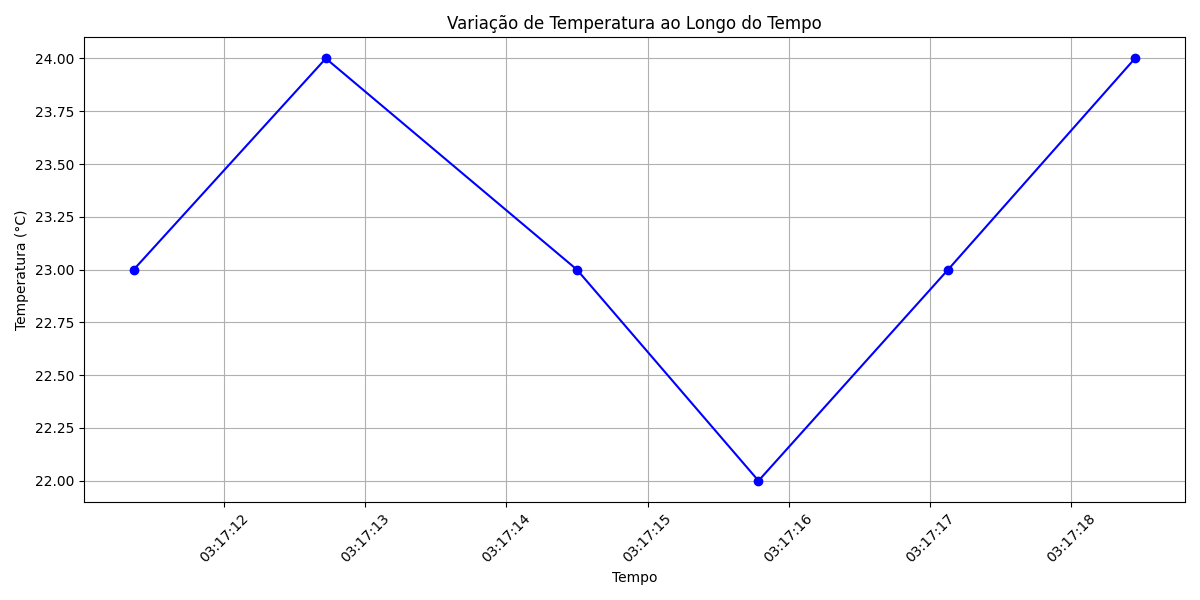
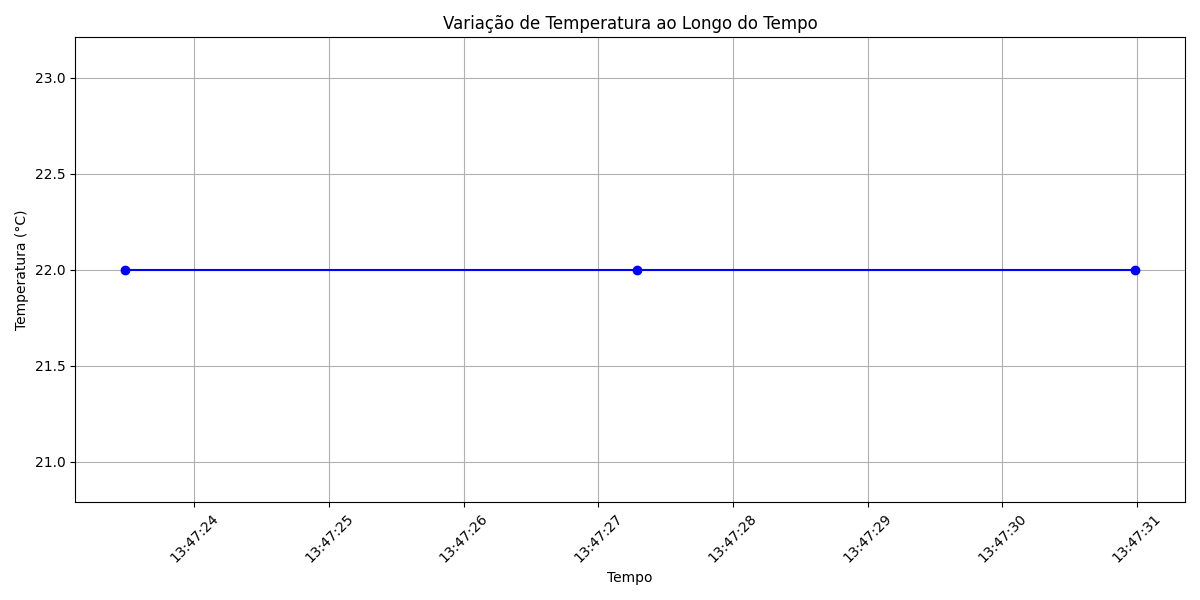
update query

diff --git a/temporary/mapa_interativo.html b/temporary/mapa_interativo.html
@@ -25,7 +25,7 @@
             <meta name="viewport" content="width=device-width,
                 initial-scale=1.0, maximum-scale=1.0, user-scalable=no" />
             <style>
-                #map_e3aedf1ac83366b0829b24443fabc8b7 {
+                #map_30543bebe0c7d80ff248e137aa27f65f {
                     position: relative;
                     width: 100.0%;
                     height: 100.0%;
@@ -39,18 +39,18 @@
 <body>
     
     
-            <div class="folium-map" id="map_e3aedf1ac83366b0829b24443fabc8b7" ></div>
+            <div class="folium-map" id="map_30543bebe0c7d80ff248e137aa27f65f" ></div>
         
 </body>
 <script>
     
     
-            var map_e3aedf1ac83366b0829b24443fabc8b7 = L.map(
-                "map_e3aedf1ac83366b0829b24443fabc8b7",
+            var map_30543bebe0c7d80ff248e137aa27f65f = L.map(
+                "map_30543bebe0c7d80ff248e137aa27f65f",
                 {
                     center: [-22.816832367493333, -47.06966012713691],
                     crs: L.CRS.EPSG3857,
-                    zoom: 17,
+                    zoom: 16,
                     zoomControl: true,
                     preferCanvas: false,
                 }
@@ -60,39 +60,80 @@
 
         
     
-            var tile_layer_a0398e5f655644e53e5edd1a771ab998 = L.tileLayer(
+            var tile_layer_a16a953ddb76fdcf31aca2148f926533 = L.tileLayer(
                 "https://tile.openstreetmap.org/{z}/{x}/{y}.png",
                 {"attribution": "\u0026copy; \u003ca href=\"https://www.openstreetmap.org/copyright\"\u003eOpenStreetMap\u003c/a\u003e contributors", "detectRetina": false, "maxNativeZoom": 19, "maxZoom": 19, "minZoom": 0, "noWrap": false, "opacity": 1, "subdomains": "abc", "tms": false}
             );
         
     
-            tile_layer_a0398e5f655644e53e5edd1a771ab998.addTo(map_e3aedf1ac83366b0829b24443fabc8b7);
+            tile_layer_a16a953ddb76fdcf31aca2148f926533.addTo(map_30543bebe0c7d80ff248e137aa27f65f);
         
     
-            var marker_1c1399b52b5e4f5e831d1d528a805f4f = L.marker(
-                [-22.813511570212142, -47.06393397533617],
+            var marker_34e2516f6445600b1444703c5de8d439 = L.marker(
+                [-22.81321, -47.0637],
                 {}
-            ).addTo(map_e3aedf1ac83366b0829b24443fabc8b7);
+            ).addTo(map_30543bebe0c7d80ff248e137aa27f65f);
         
     
-        var popup_e309bd49cfe048e60ede7df97f1ff206 = L.popup({"maxWidth": "100%"});
+            var icon_0d07ff0abb2caa1b83fd4300a021a510 = L.AwesomeMarkers.icon(
+                {"extraClasses": "fa-rotate-0", "icon": "info-sign", "iconColor": "white", "markerColor": "red", "prefix": "glyphicon"}
+            );
+            marker_34e2516f6445600b1444703c5de8d439.setIcon(icon_0d07ff0abb2caa1b83fd4300a021a510);
+        
+    
+        var popup_17bf38505822e92a7dd1478157816001 = L.popup({"maxWidth": "100%"});
 
         
             
-                var html_45e2dd57e9275795763baf31bd4df918 = $(`<div id="html_45e2dd57e9275795763baf31bd4df918" style="width: 100.0%; height: 100.0%;">Temperature: 24ºC</div>`)[0];
-                popup_e309bd49cfe048e60ede7df97f1ff206.setContent(html_45e2dd57e9275795763baf31bd4df918);
+                var html_b7631daf36058e483fcb6e41403cbbe8 = $(`<div id="html_b7631daf36058e483fcb6e41403cbbe8" style="width: 100.0%; height: 100.0%;">Temperature: 23.67ºC</div>`)[0];
+                popup_17bf38505822e92a7dd1478157816001.setContent(html_b7631daf36058e483fcb6e41403cbbe8);
             
         
 
-        marker_1c1399b52b5e4f5e831d1d528a805f4f.bindPopup(popup_e309bd49cfe048e60ede7df97f1ff206)
+        marker_34e2516f6445600b1444703c5de8d439.bindPopup(popup_17bf38505822e92a7dd1478157816001)
         ;
 
         
     
     
-            marker_1c1399b52b5e4f5e831d1d528a805f4f.bindTooltip(
+            marker_34e2516f6445600b1444703c5de8d439.bindTooltip(
                 `<div>
-                     Temperature: 24ºC
+                     Temperature: 23.67ºC
+                 </div>`,
+                {"sticky": true}
+            );
+        
+    
+            var marker_e52fcf7b0c49ff86e0e310f22b8ab8c3 = L.marker(
+                [-22.81351, -47.06087],
+                {}
+            ).addTo(map_30543bebe0c7d80ff248e137aa27f65f);
+        
+    
+            var icon_4ad69f7541c9086e29569d783d3cd0ec = L.AwesomeMarkers.icon(
+                {"extraClasses": "fa-rotate-0", "icon": "info-sign", "iconColor": "white", "markerColor": "red", "prefix": "glyphicon"}
+            );
+            marker_e52fcf7b0c49ff86e0e310f22b8ab8c3.setIcon(icon_4ad69f7541c9086e29569d783d3cd0ec);
+        
+    
+        var popup_8b05b3908fe084dd585d7f6725a20d05 = L.popup({"maxWidth": "100%"});
+
+        
+            
+                var html_a4495734e69b29c355dc20e0839a23ff = $(`<div id="html_a4495734e69b29c355dc20e0839a23ff" style="width: 100.0%; height: 100.0%;">Temperature: 80.12ºC</div>`)[0];
+                popup_8b05b3908fe084dd585d7f6725a20d05.setContent(html_a4495734e69b29c355dc20e0839a23ff);
+            
+        
+
+        marker_e52fcf7b0c49ff86e0e310f22b8ab8c3.bindPopup(popup_8b05b3908fe084dd585d7f6725a20d05)
+        ;
+
+        
+    
+    
+            marker_e52fcf7b0c49ff86e0e310f22b8ab8c3.bindTooltip(
+                `<div>
+                     Temperature: 80.12ºC
                  </div>`,
                 {"sticky": true}
             );

diff --git a/populate/query.py b/populate/query.py
@@ -1,18 +1,18 @@
-from core.core import client
+from core.core import client, database
 import matplotlib.pyplot as plt
 
-def plot_temp_data(path='temporary/temperature_variation.png'):
-    query = """
+
+def plot_temp_data(longitude='222222', path="temporary/temperature_variation.png"):
+    query = f"""
             SELECT *
             FROM "temperature"
             WHERE
-            "temperature" IS NOT NULL
-            LIMIT 6
+            "longitute" IN ({longitude})
             """
-    table = client.query(query=query, database="temp_data", language='sql')
+    table = client.query(query=query, database=database, language="sql")
     df = table.to_pandas().sort_values(by="time")
     plt.figure(figsize=(12, 6))
-    plt.plot(df['time'], df['temperature'], marker='o', color='b', linestyle='-')
+    plt.plot(df["time"], df["temperature"], marker="o", color="b", linestyle="-")
     plt.title("Variação de Temperatura ao Longo do Tempo")
     plt.xlabel("Tempo")
     plt.ylabel("Temperatura (°C)")
@@ -22,12 +22,17 @@ def plot_temp_data(path='temporary/temperature_variation.png'):
     plt.savefig(path)
     return path
 
+
 def query_last():
     query = """
-            SELECT *
-            FROM "temperature"
-            ORDER BY time DESC
-            LIMIT 1;
+                SELECT 
+                        DISTINCT ON (latitude, longitude) 
+                        longitude, 
+                        latitude, 
+                        time,
+                        temperature
+                FROM temperature
+                ORDER BY latitude, longitude, time DESC;
             """
-    table = client.query(query=query, database="temp_data", language='sql')
+    table = client.query(query=query, database=database, language="sql")
     return table.to_pandas().sort_values(by="time")

diff --git a/app.py b/app.py
@@ -1,0 +1,28 @@
+import folium
+from flask import Flask, send_from_directory
+from populate.query import query_last
+from core.config import LON_UNICAMP, LAT_UNICAMP
+
+app = Flask(__name__)
+
+@app.route('/')
+def generate_and_serve_map():
+    df = query_last()
+    map = folium.Map(location=[LAT_UNICAMP, LON_UNICAMP], zoom_start=16)
+    for _, row in df.iterrows():
+        latitude = row.latitude
+        longitude = row.longitude
+        temp_value = row.temperature
+        temperature = f"Temperature: {temp_value}ºC"
+
+        folium.Marker(
+            [latitude, longitude],
+            popup=temperature,
+            tooltip=temperature,
+            icon=folium.Icon(color="red"),
+        ).add_to(map)
+    map.save("temporary/mapa_interativo.html")
+    return send_from_directory('temporary', 'mapa_interativo.html')
+
+if __name__ == '__main__':
+    app.run(debug=True)

diff --git a/core/core.py b/core/core.py
@@ -4,5 +4,6 @@ from influxdb_client_3 import InfluxDBClient3
 token = "4V0lbHBVWwmFGL8A1takTaNYsmhT_G_Pc3ZsYeCv5olkmEoRyYPrpS-CwwymJGp7Jhq7GR6geCWk8kF3uQBV1A=="
 org = "Unicamp MO629"
 host = "https://us-east-1-1.aws.cloud2.influxdata.com"
+database= "temp_data"
 
 client = InfluxDBClient3(host=host, token=token, org=org)

diff --git a/populate/populate.py b/populate/populate.py
@@ -2,9 +2,7 @@ import time
 import random
 
 from influxdb_client_3 import Point
-from core.core import client
-
-database="temp_data"
+from core.core import client, database
 
 data_example = {
     "point1": {

diff --git a/populate_and_plot.py b/populate_and_plot.py
@@ -1,0 +1,8 @@
+import os
+from populate.populate import populate
+from populate.query import plot_temp_data
+
+if os.getenv("POPULATE", "false").lower() == "true":
+    populate()
+
+plot_temp_data()
